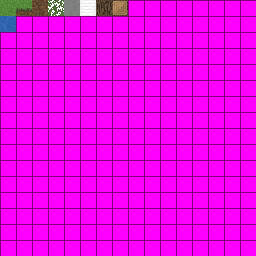
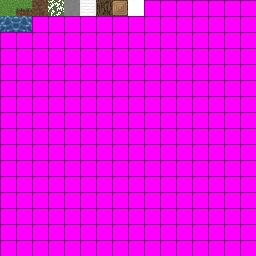
long time no see, i added animated water, and i also start working on some other blocks and better terrain generation

Changed region(s): [[0.0, 0.0625, 0.125, 0.125], [0.5, 0.0, 0.5625, 0.0625]]

diff --git a/src/game.c b/src/game.c
@@ -175,7 +175,7 @@ void game_tick(float dt) {
             int py = hit.by + (int)hit.normal[1];
             int pz = hit.bz + (int)hit.normal[2];
 
-            world_set_block(&world, px, py, pz, LOG);
+            world_set_block(&world, px, py, pz, WATER);
             rebuild_chunks_for_block(&world, px, py, pz);
             place_delay = 0.2f;
         }
